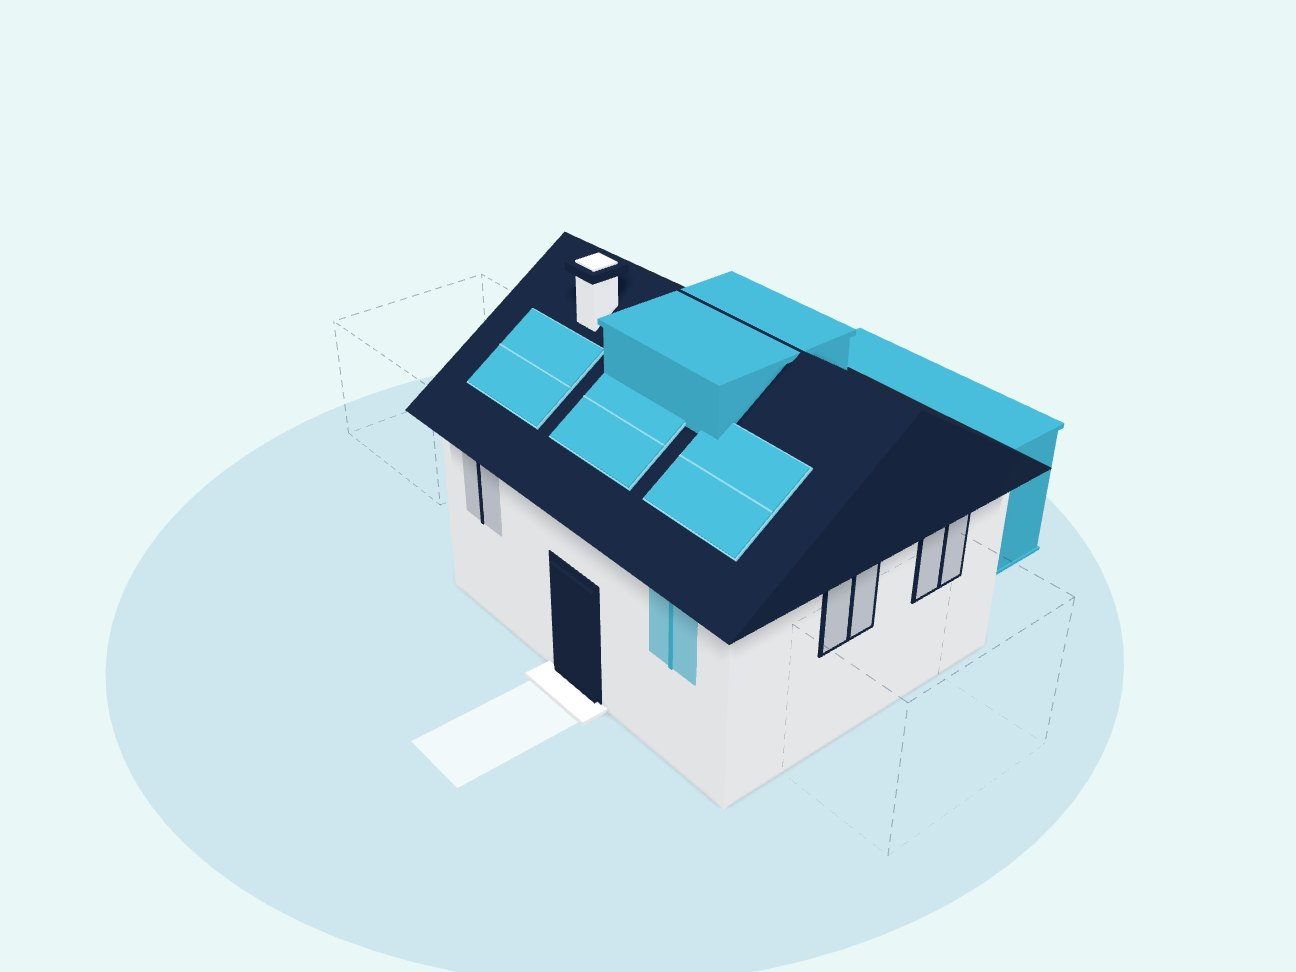
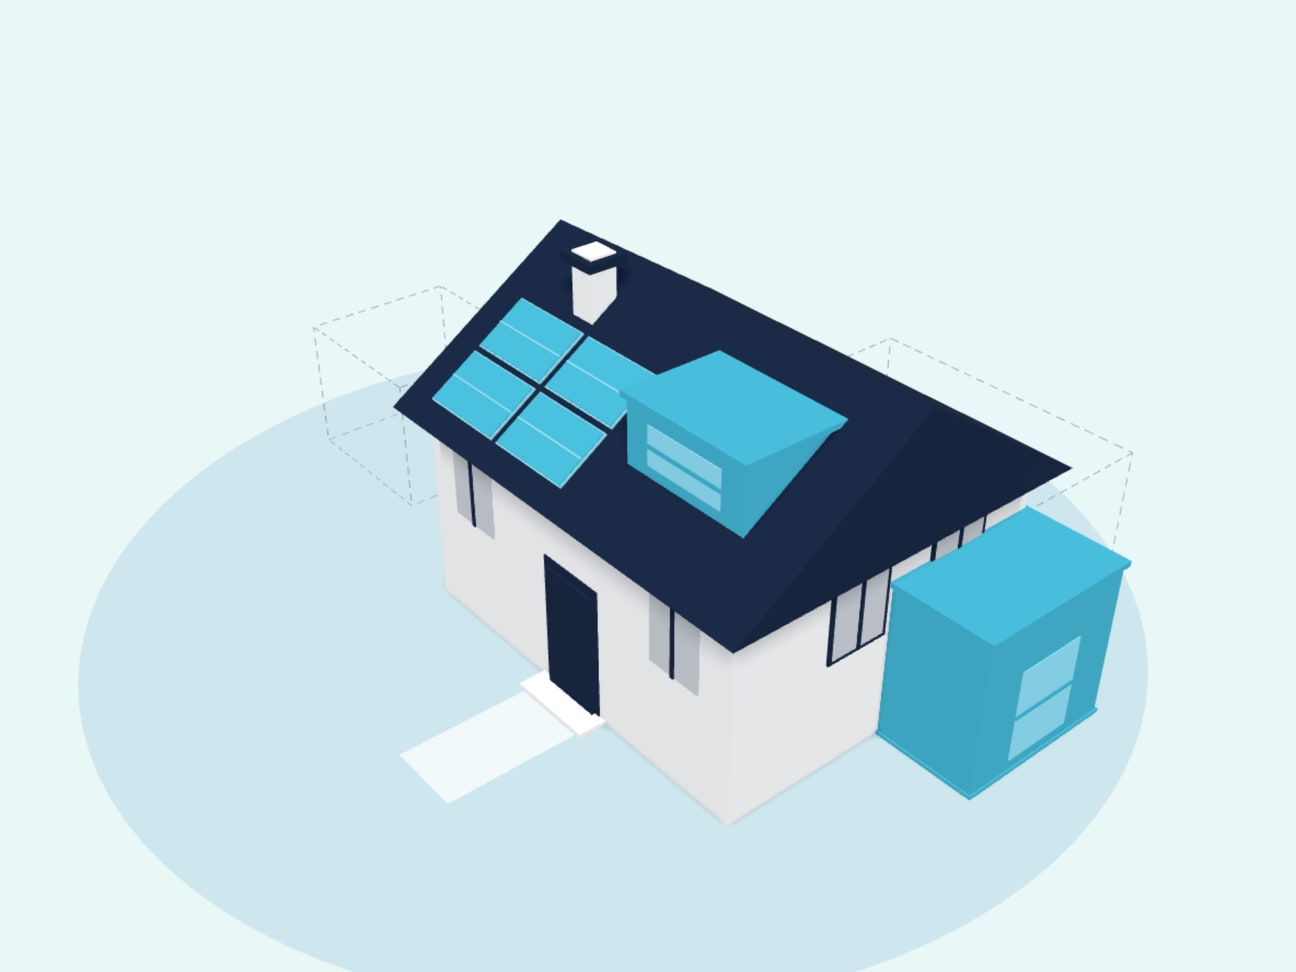
Estimator box dormer, fresh closing-band preview, 4:3 founder cards
- Loft add-on is now a box dormer: vertical front wall set back from the eaves,
  cheeks running into the slope, flat roof meeting the main roof below the ridge;
  solar array stays clear. Geometry only.
- Replace quote-preview.jpg with a current estimator screenshot (1296x972, 39KB).
- Founder cards drop to 4:3 until headshots arrive; the card grows only if the
  text needs it. Comment notes how to restore the portrait 4:5 shape.

diff --git a/src/lib/isometric-estimator-scene.ts b/src/lib/isometric-estimator-scene.ts
@@ -335,14 +335,84 @@ export function mountIsometricEstimator(
   }
   // The single-storey add-ons share one height below the eaves. The side return
   // and rear extension wrap the back corner together; the garden room stands
-  // apart, smaller and lower. The loft is a dormer on the front slope's left
-  // half, set back from the eaves with its flat top tucked under the ridge, so
-  // the solar array keeps the right half.
+  // apart, smaller and lower. The loft is a box dormer on the front slope's left
+  // half (makeDormer below), so the solar array keeps the right half.
   var SINGLE_STOREY_H = 2.3;
   makeAddon('extension',   0,0,5,      4.4,SINGLE_STOREY_H,2.3, 'z', 1);
   makeAddon('side_return', -1.5,0,2.55, 1.5,SINGLE_STOREY_H,2.45, 'x', -1);
-  makeAddon('loft',        0.5,3.72,0.9, 2,1.03,1.6, 'z', -1);
   makeAddon('garden_room', 8.2,0,0.8,  2.6,2.1,2.4, 'z', -1);
+
+  // Box dormer on the front slope: a vertical front wall set back from the
+  // eaves, side cheeks that taper into the slope, and a flat roof that meets
+  // the main roof below the ridge. Everything is built in (z, y) profile and
+  // extruded along X; the body runs on below the roof surface, so it never
+  // shows a gap or fights the roof plane where they meet.
+  function makeDormer(key, x0, w, frontZ, flatRoofY){
+    var eaveZ = -roofOv;
+    var slope = roofRidgeH / (wallD/2 + roofOv);                 // rise per unit of z on the front slope
+    function roofY(z){ return wallH + (z - eaveZ) * slope; }      // height of the front slope at z
+    function roofZ(y){ return eaveZ + (y - wallH) / slope; }      // where the front slope reaches height y
+    var CAP = 0.08, BURY = 0.2;
+    var frontBaseY = roofY(frontZ);
+    var backZ = roofZ(flatRoofY);                                 // flat roof meets the slope here
+
+    // front wall down to yBase, flat top back to z1, then a line parallel to the slope, `sink` below it
+    function profile(z0, yBase, z1, yTop, sink){
+      var shape = new THREE.Shape();
+      shape.moveTo(z0, yBase - sink);
+      shape.lineTo(z0, yTop);
+      shape.lineTo(z1, yTop);
+      shape.lineTo(z1, yTop - sink);
+      shape.closePath();
+      return shape;
+    }
+    // Extrude runs along local +Z; turned -90° about Y it runs along world -X, so start at x0 + w.
+    function alongX(geo, xStart){
+      var mesh = new THREE.Mesh(geo);
+      mesh.rotation.y = -Math.PI/2;
+      mesh.position.x = xStart;
+      return mesh;
+    }
+
+    var group = new THREE.Group();
+    var solidGroup = new THREE.Group();
+    var bodyMat = addonMat();
+    var glassMat = addonGlassMat();
+
+    var body = alongX(new THREE.ExtrudeGeometry(profile(frontZ, frontBaseY, backZ, flatRoofY, BURY), {depth:w, bevelEnabled:false}), x0 + w);
+    body.material = bodyMat;
+    body.castShadow = true;
+    body.receiveShadow = true;
+    solidGroup.add(body);
+
+    // flat roof: a thin slab with a small overhang, running back until its top meets the slope
+    var capBackZ = roofZ(flatRoofY + CAP);
+    solidGroup.add(boxMesh(x0 - 0.06, flatRoofY, frontZ - 0.06, w + 0.12, CAP, capBackZ - (frontZ - 0.06), bodyMat));
+
+    // glazing on the front wall, with a transom bar like the other add-ons
+    var gw = w * 0.62, frontH = flatRoofY - frontBaseY;
+    var glassH = frontH * 0.6, glassY = frontBaseY + frontH * 0.18, gx0 = x0 + (w - gw)/2;
+    solidGroup.add(boxMesh(gx0, glassY, frontZ - 0.015, gw, glassH, 0.03, glassMat));
+    solidGroup.add(boxMesh(gx0 - 0.02, glassY + glassH/2 - 0.03, frontZ - 0.03, gw + 0.04, 0.06, 0.06, bodyMat));
+
+    // ghost: the visible outline only (front wall, cheeks, flat roof), lifted a hair off the roof
+    var ghostShape = new THREE.Shape();
+    ghostShape.moveTo(frontZ, frontBaseY + 0.02);
+    ghostShape.lineTo(frontZ, flatRoofY + CAP);
+    ghostShape.lineTo(capBackZ - 0.03, flatRoofY + CAP);
+    ghostShape.closePath();
+    var ghostGeo = new THREE.EdgesGeometry(new THREE.ExtrudeGeometry(ghostShape, {depth:w, bevelEnabled:false}));
+    var ghost = new THREE.LineSegments(ghostGeo, ghostMat());
+    ghost.rotation.y = -Math.PI/2;
+    ghost.position.x = x0 + w;
+    ghost.computeLineDistances();
+
+    group.add(ghost);
+    group.add(solidGroup);
+    modelRoot.add(group);
+    addonMeshes[key] = {solid:solidGroup, ghost:ghost, target:0, progress:0, rise:ADDON_RISE, materials:[bodyMat, glassMat], glow:[glassMat], shadowsOn:true};
+  }
+  makeDormer('loft', 0.5, 2, 0.55, 4.5);
 
   function ghostMat(){
     return new THREE.LineDashedMaterial({color:NAVY, dashSize:0.14, gapSize:0.1, transparent:true, opacity:GHOST_OPACITY});

diff --git a/src/components/founder-cards.tsx b/src/components/founder-cards.tsx
@@ -8,24 +8,30 @@ export function FounderCards({ className = "" }: { className?: string }) {
       {teamMembers.map((member) => (
         <li
           key={member.name}
-          className="founder-card theme-brand group relative isolate flex aspect-[4/5] flex-col justify-end overflow-hidden rounded-xl bg-page p-6 transition-transform duration-300 ease-out hover:-translate-y-1 motion-reduce:transition-none sm:p-8"
+          className="founder-card theme-brand group relative isolate grid grid-cols-1 overflow-hidden rounded-xl bg-page transition-transform duration-300 ease-out before:col-start-1 before:row-start-1 before:aspect-[4/3] hover:-translate-y-1 motion-reduce:transition-none"
         >
           {/* Headshot goes here, under the text: a fill Image with
               className "-z-10 object-cover", then a navy gradient from
-              the bottom so the white type keeps its contrast. */}
+              the bottom so the white type keeps its contrast.
+              The before: spacer sets the card's shape and the text shares
+              its grid cell, so a card only grows past it when the text
+              needs the room. When the photos arrive, restore the portrait
+              card by changing before:aspect-[4/3] to before:aspect-[4/5]. */}
           <BrandMark
             title=""
             className="founder-mark pointer-events-none absolute top-6 right-6 -z-10 h-32 w-auto sm:top-8 sm:right-8 sm:h-40 text-white/10 transition-transform duration-500 ease-out group-hover:translate-x-2 group-hover:-translate-y-2 motion-reduce:transition-none"
           />
-          <h3 className="font-serif text-[2.5rem] leading-none tracking-display text-ink">
-            {member.name}
-          </h3>
-          <p className="mt-3 text-xs font-bold tracking-[0.2em] text-ink/80 uppercase">
-            {member.role}
-          </p>
-          <p className="mt-4 max-w-sm text-lg leading-relaxed text-ink/85">
-            {member.blurb}
-          </p>
+          <div className="col-start-1 row-start-1 flex min-w-0 flex-col justify-end p-6 sm:p-8">
+            <h3 className="font-serif text-[2.5rem] leading-none tracking-display text-ink">
+              {member.name}
+            </h3>
+            <p className="mt-3 text-xs font-bold tracking-[0.2em] text-ink/80 uppercase">
+              {member.role}
+            </p>
+            <p className="mt-4 max-w-sm text-lg leading-relaxed text-ink/85">
+              {member.blurb}
+            </p>
+          </div>
         </li>
       ))}
     </ul>
